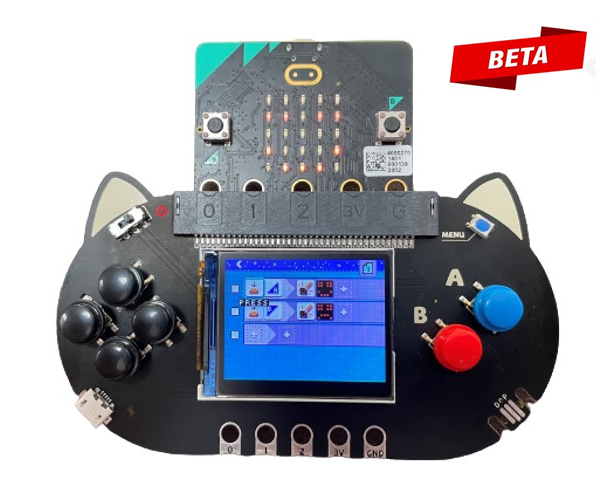
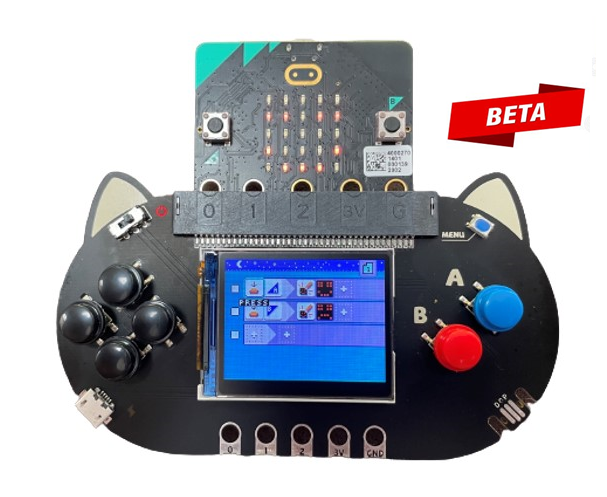
move beta, bring back pxtcore

Changed region(s): [[0.7414, 0.0302, 0.9786, 0.3018]]

diff --git a/screen/sim/screen.ts b/screen/sim/screen.ts
@@ -1,4 +1,4 @@
-namespace pxsim {
+namespace pxsim.pxtcore {
     export function updateScreen(img: RefImage) {
         const state = pxsim.getScreenState();
         if (state)
